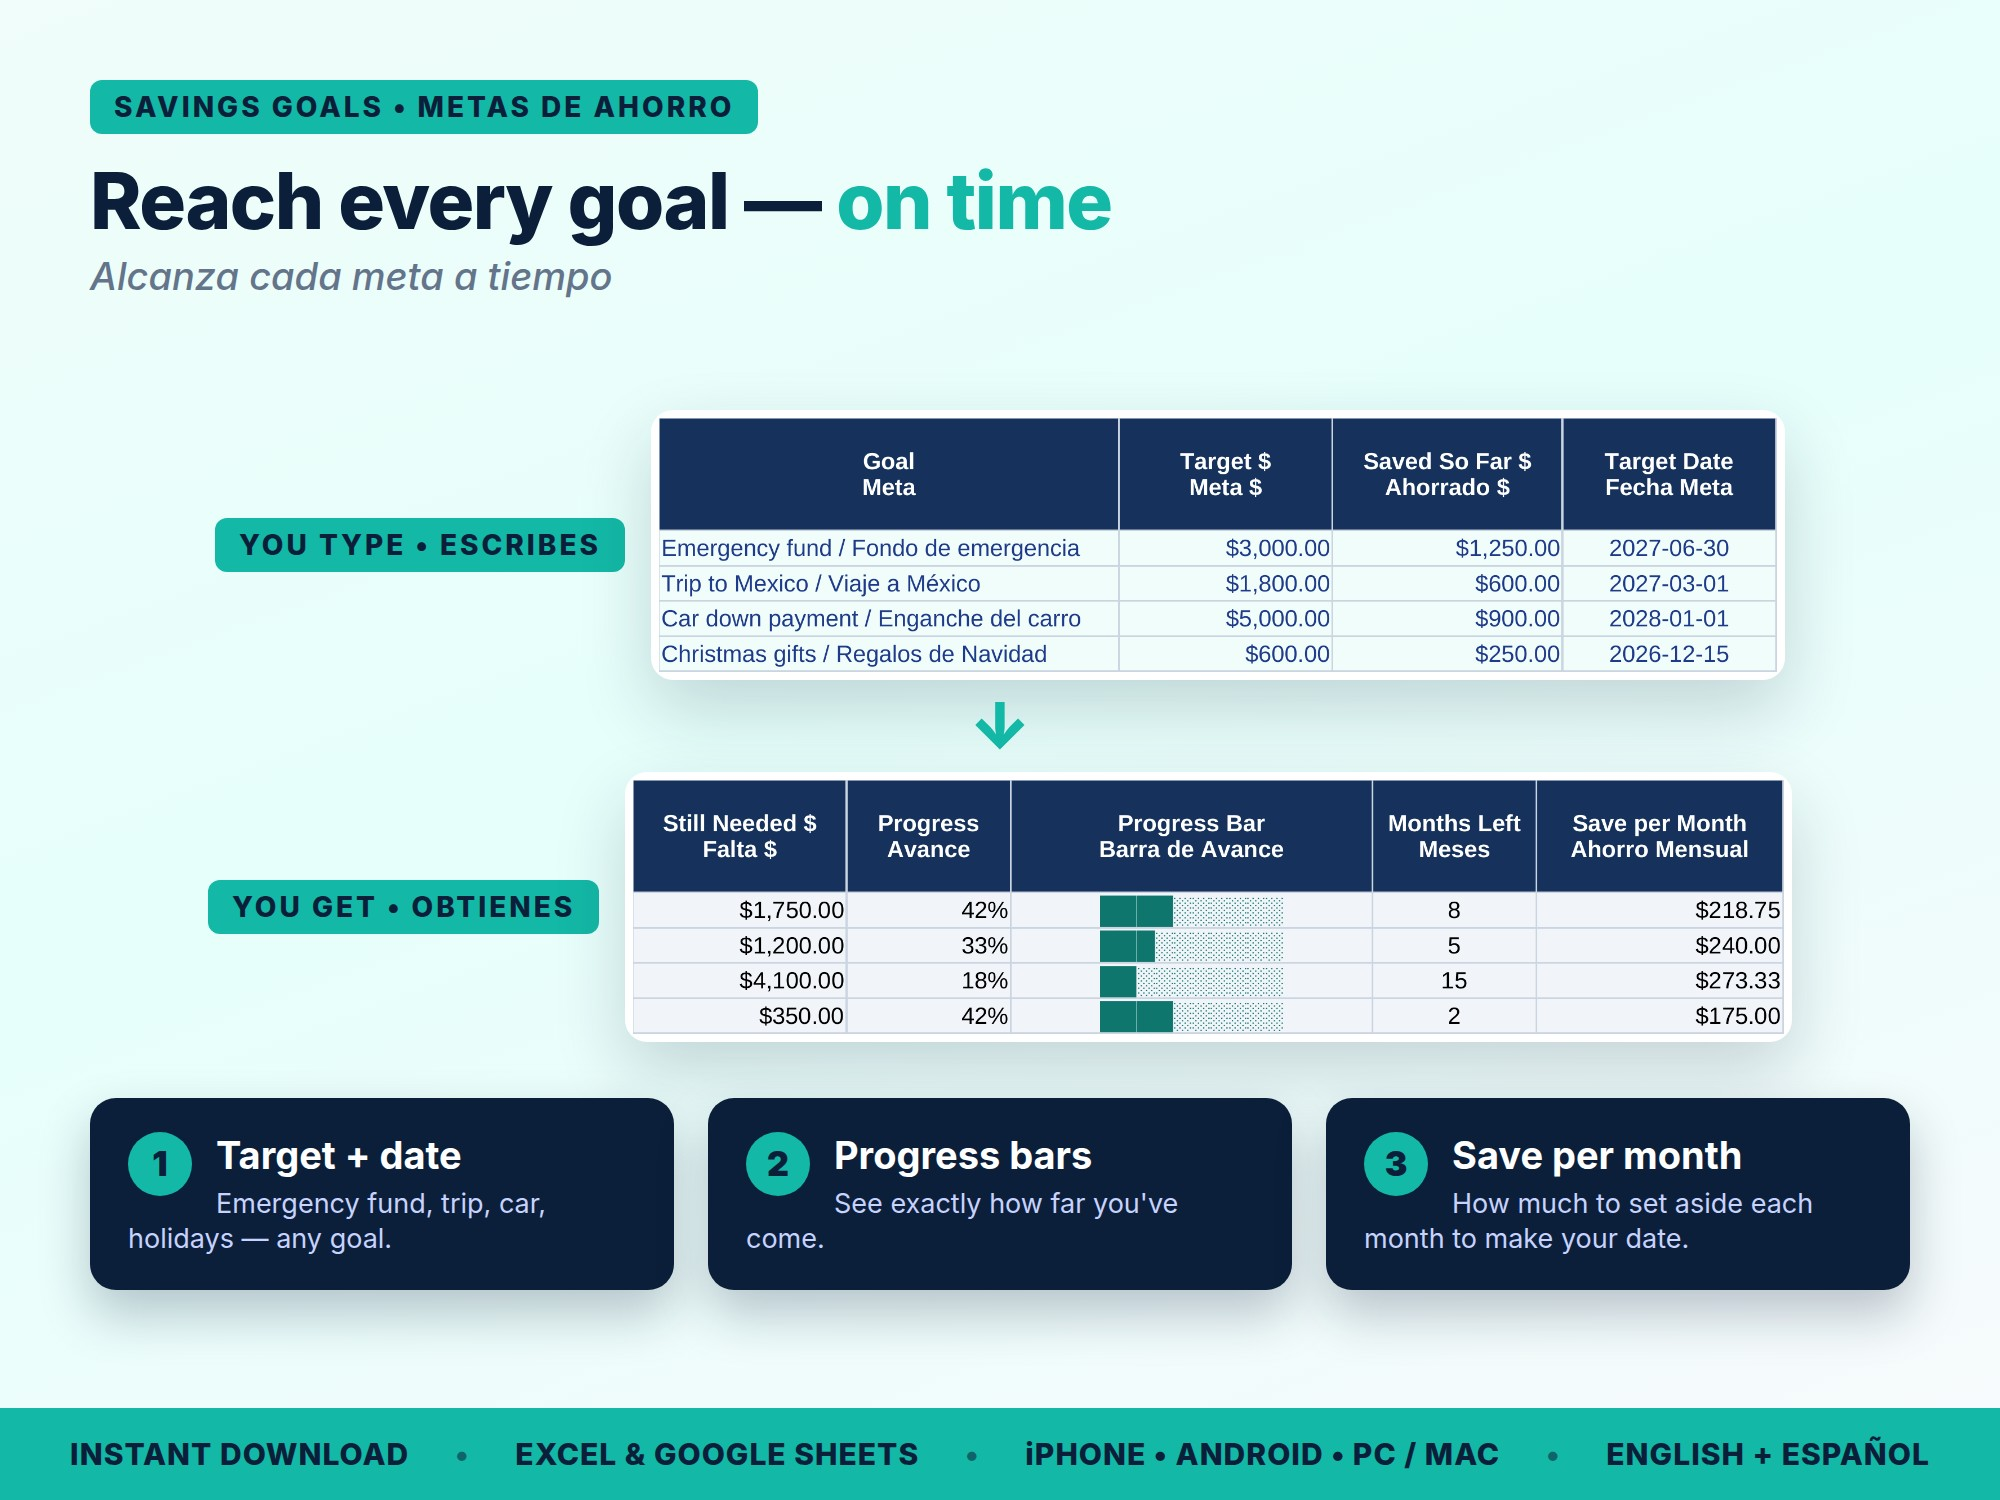
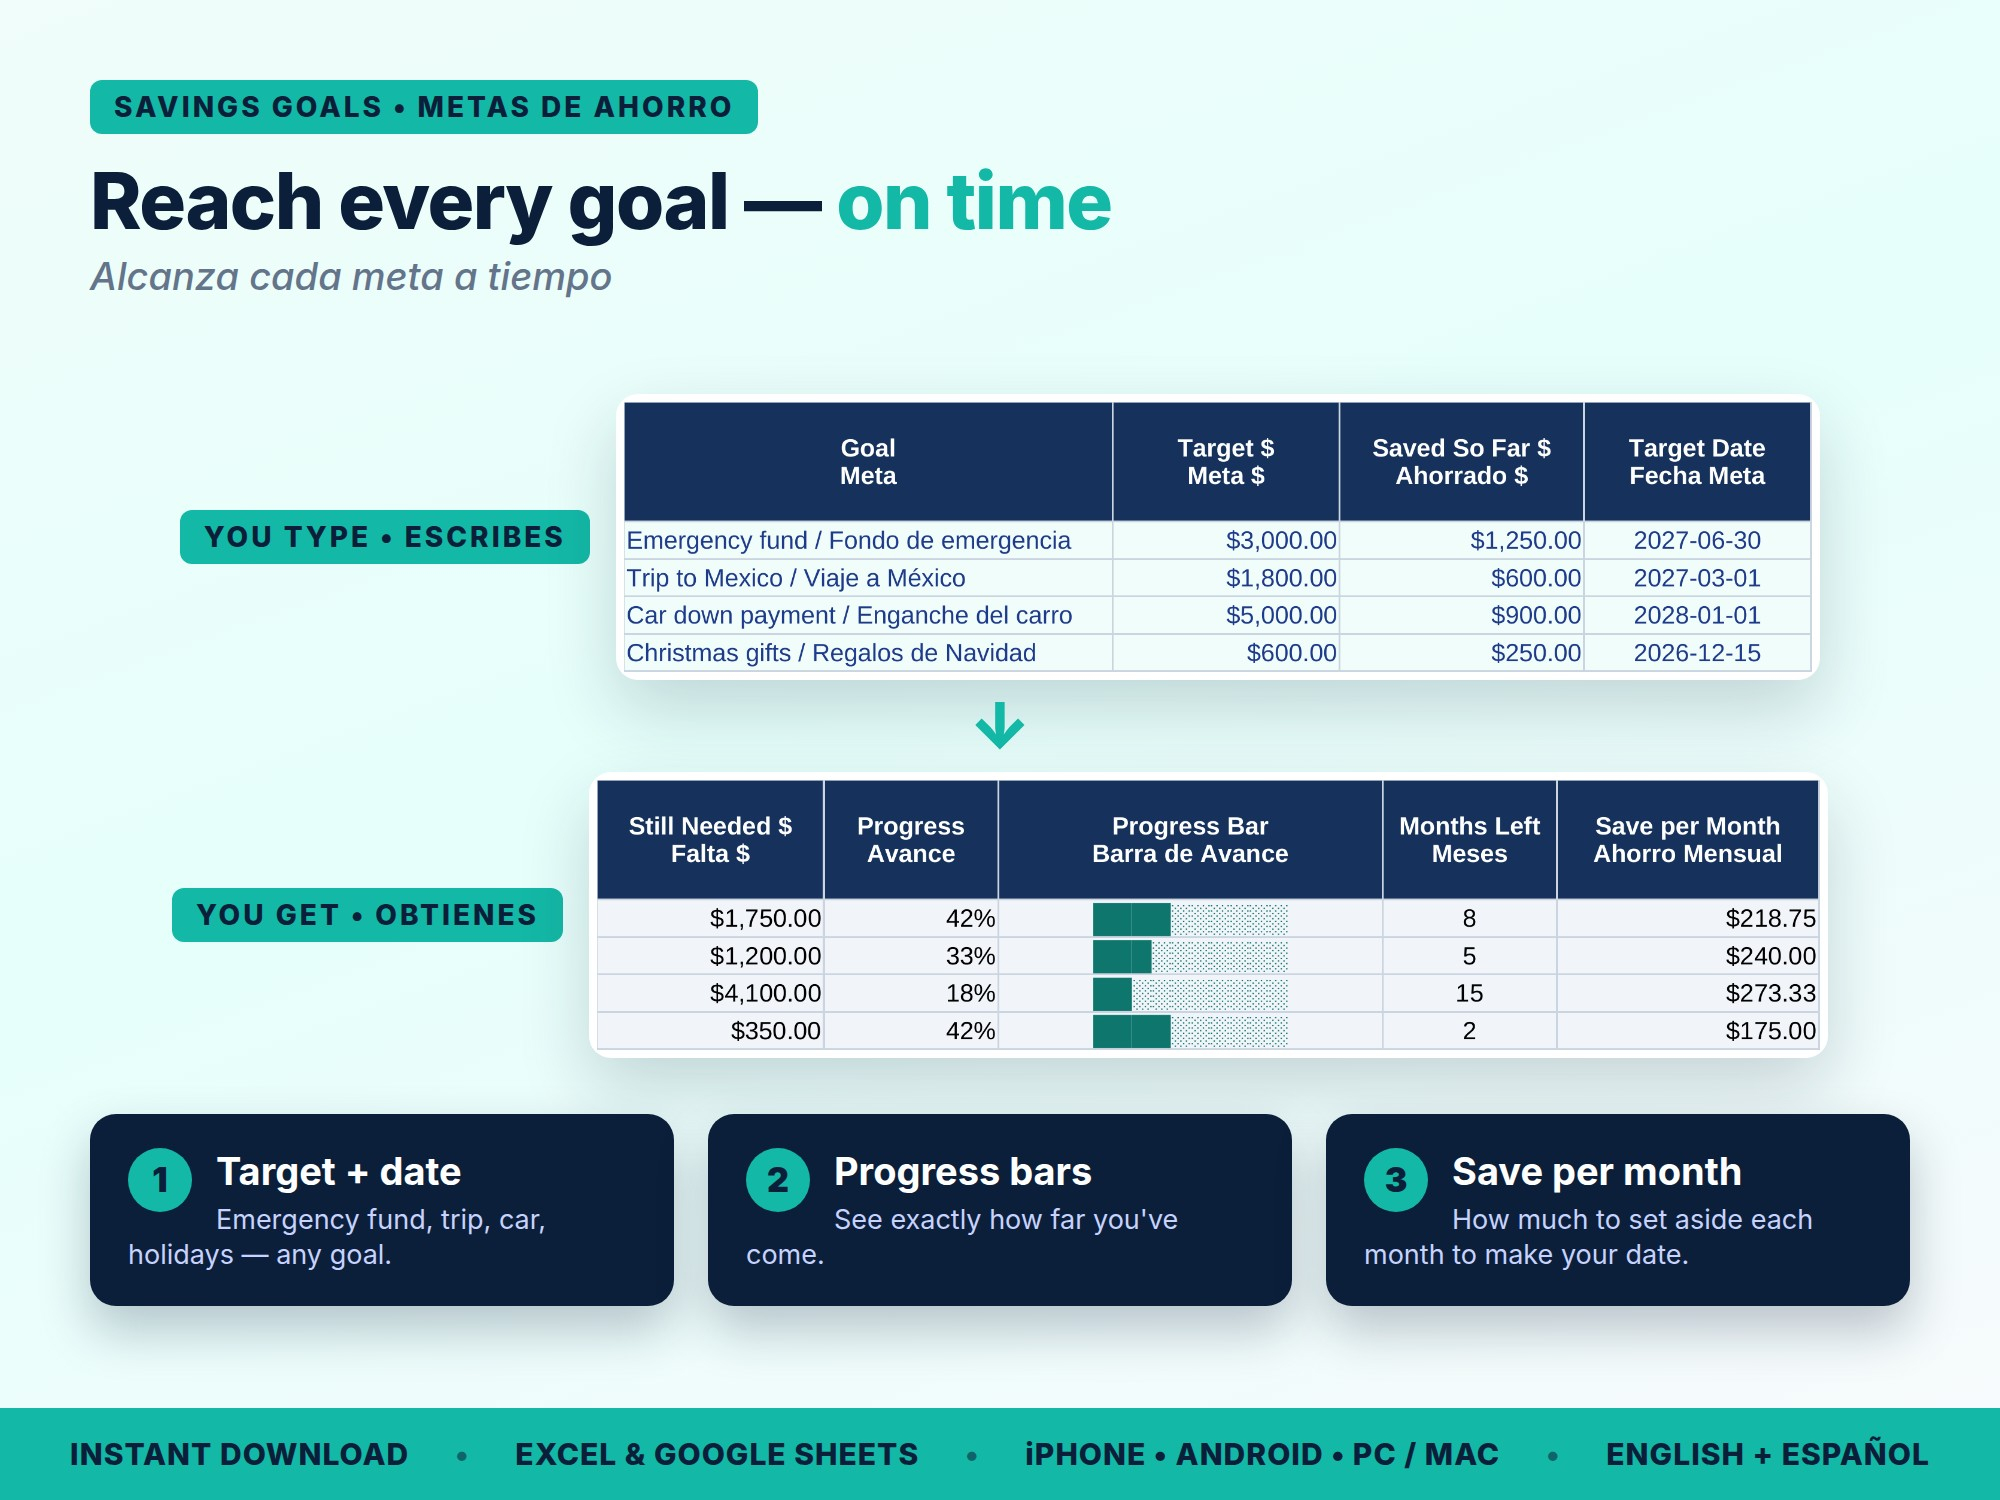
Stack wide before/after screenshots so they fit and read larger
Claude-Session: https://claude.ai/code/session_01JPzyNUAq84BJUgu9eRds5E

Changed region(s): [[0.031, 0.5213, 0.961, 0.8893], [0.093, 0.2453, 0.93, 0.46]]

diff --git a/build/listing_images.py b/build/listing_images.py
@@ -62,7 +62,7 @@ h2 { font-size: 78px; line-height: 1.05; font-weight: 800; letter-spacing: -1.5p
 .foot { position: absolute; left: 0; right: 0; bottom: 0; height: 92px; background: #14B8A6; color: #0B1F3A;
         display: flex; align-items: center; justify-content: center; gap: 46px; font-size: 30px; font-weight: 800; letter-spacing: 1px; }
 .foot i { font-style: normal; opacity: .55; }
-.tag { display: inline-block; background: #14B8A6; color: #0B1F3A; font-weight: 800; font-size: 28px; letter-spacing: 3px;
+.tag { white-space: nowrap; display: inline-block; background: #14B8A6; color: #0B1F3A; font-weight: 800; font-size: 28px; letter-spacing: 3px;
        padding: 10px 24px; border-radius: 12px; }
 """
 
@@ -126,10 +126,10 @@ def feature_wide(kicker, title, title_es, shot, callouts, shot_top=330, stacked=
         a, b = shot
         shot_html = (f'<div style="display:flex;flex-direction:column;align-items:center;gap:14px">'
                      f'<div style="display:flex;align-items:center;gap:26px"><div class="tag">YOU TYPE • ESCRIBES</div>'
-                     f'<div class="card" style="height:270px"><img src="{img(a)}" style="height:100%;width:auto"></div></div>'
+                     f'<div class="card" style="max-width:1380px"><img src="{img(a)}" style="max-height:270px;max-width:100%;width:auto;height:auto"></div></div>'
                      f'<div style="font-size:64px;color:#14B8A6;font-weight:900;line-height:1">↓</div>'
                      f'<div style="display:flex;align-items:center;gap:26px"><div class="tag">YOU GET • OBTIENES</div>'
-                     f'<div class="card" style="height:270px"><img src="{img(b)}" style="height:100%;width:auto"></div></div></div>')
+                     f'<div class="card" style="max-width:1380px"><img src="{img(b)}" style="max-height:270px;max-width:100%;width:auto;height:auto"></div></div></div>')
     elif isinstance(shot, tuple):   # (input shot, output shot) side by side with an arrow
         a, b = shot
         wa, ha = Image.open(f"{SHOTS}/{a}.png").size
@@ -296,7 +296,7 @@ PLAN = {
             ("⚠ Low-margin alert", "Any sale under 15% margin turns red."),
         ])),
         ("05-sourcing", feature_wide("BONUS • BONO", "Should you buy it? <span class='t'>Know before you pay</span>",
-                                     "¿Lo compras? Sábelo antes de pagar", ("pt_sourcing_in", "pt_sourcing_out"), [
+                                     "¿Lo compras? Sábelo antes de pagar", ("pt_sourcing_in", "pt_sourcing_out"), stacked=True, callouts=[
             ("Set your rules", "Minimum margin and minimum profit per item."),
             ("✔ BUY or ✖ PASS", "Instant decision with estimated profit, margin and ROI."),
             ("Max Buy Price", "The most you can pay and still hit your target — negotiate with it."),
